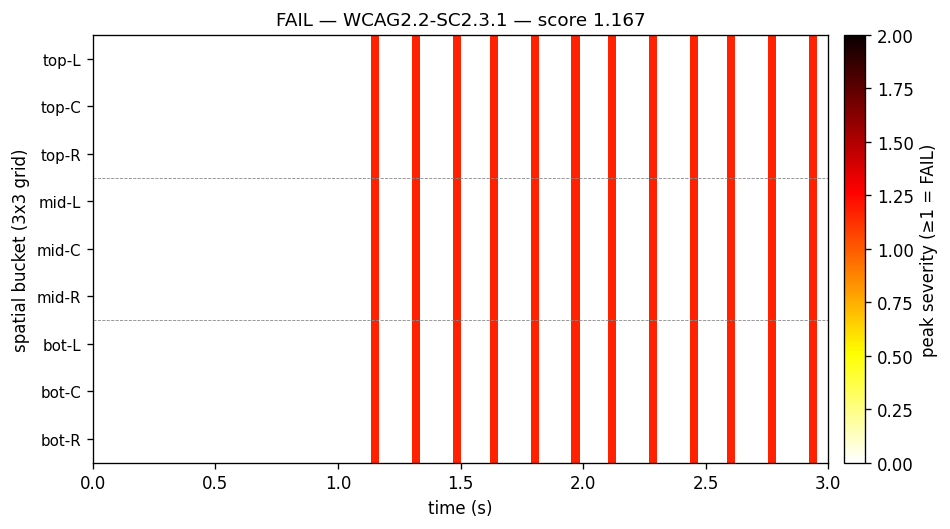
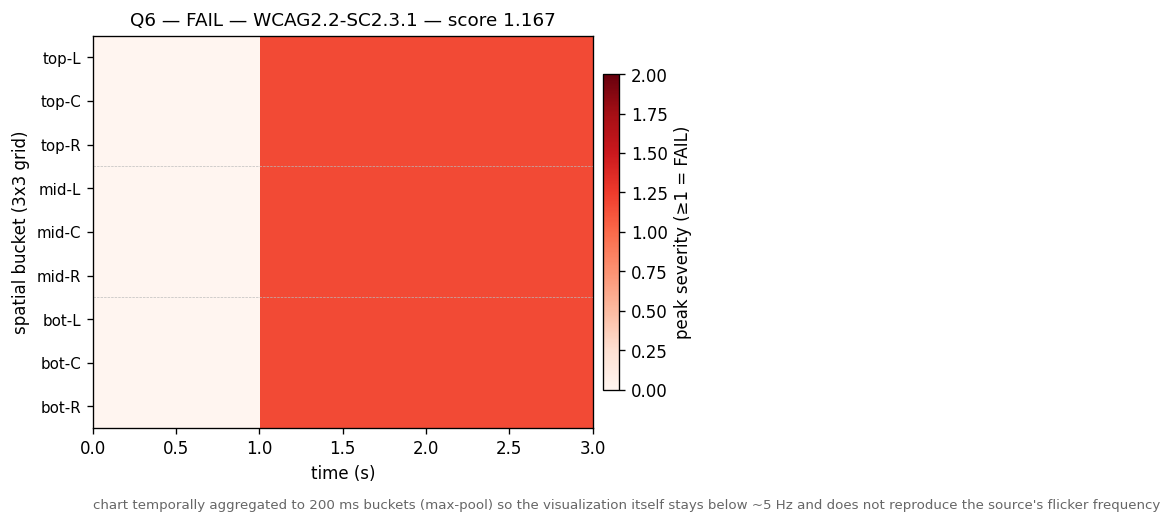
Heatmap: max-pool to 200ms buckets so the chart isn't itself a PSE hazard
The original heatmap rendered one column per video frame, so a video
with a 31 Hz hazardous flicker became a chart with 31 Hz red stripes.
The visualization meant to warn about photosensitive content was
reproducing exactly the kind of content it was warning about. Real
problem, real irony.

Fix:

  - Max-pool the per-frame heat into wider time buckets before
    rendering. Default 200ms means worst-case visible alternation in
    the chart is 2.5 Hz, safely below the WCAG 3-flashes/sec count
    threshold.
  - Switch the colormap from 'hot_r' (white -> yellow -> red -> black,
    very high contrast at edges) to 'Reds' (sequential, no white-to-
    bright-red transition).
  - Soften the row separators (now #bbb dotted instead of #888 dashed)
    so they don't form their own pattern against the colormap.
  - Add a footer to every rendered chart documenting that smoothing
    was applied and why -- readers should know the chart's temporal
    resolution is intentionally coarser than the source's frame rate.

Verified both visually and structurally on:
  - Q6-extended/fps_sweep/60fps_fail_31hz (source: 31 Hz full-screen
    flash). Previously rendered as 31 Hz red stripes; now a single
    continuous red block from ~1.0s onward, all 9 spatial buckets.
  - TRACE wcagc/f002f038 (source: 4 burst-pairs in 34 frames). Single
    red block in top-R bucket at 1.1-1.4s, matching the bbox and
    timing of the actual hazard.
[…]

diff --git a/report/heatmap.py b/report/heatmap.py
@@ -3,11 +3,17 @@
 Renders a PNG where the x-axis is time and the y-axis is a coarse
 spatial grid (default 3x3 → 9 buckets, listed top-to-bottom,
 left-to-right). Each cell's colour is the peak hazard severity in that
-spatial bucket at that frame, across all hazard classes.
+spatial bucket within a small time window.
 
-Reads a detector ``Result`` (dataclass or dict) and writes a PNG. Used
-to give a one-glance answer to "where and when does this video have
-hazardous regions?"
+**Why this matters for PSE-safe rendering:** a naïve plot with one
+column per video frame reproduces the source's flicker frequency in
+the visualization itself -- a heatmap of a 31 Hz hazardous video
+becomes a 31 Hz stripe pattern, which is the same hazard we're trying
+to warn about. To prevent that, we aggregate frames into wider time
+buckets (default 200 ms, well below 5 Hz) using max-pool, so the
+semantic "this region was hazardous at this time" is preserved without
+inheriting the source's flicker. A subtitle on every rendered chart
+documents the smoothing window so readers know it's intentional.
 
 Bucket order in the y-axis (top→bottom):
   0: top-left      1: top-center     2: top-right
@@ -29,6 +35,12 @@ _BUCKET_LABELS = [
     "mid-L", "mid-C", "mid-R",
     "bot-L", "bot-C", "bot-R",
 ]
+
+# Width of the temporal max-pool bucket. 200 ms keeps any visible
+# alternation in the rendered chart below 5 Hz (worst case: 2.5 Hz),
+# safely below the 3-flash-per-second WCAG count threshold. Reducing
+# this risks the visualization becoming a PSE hazard itself.
+_DEFAULT_BUCKET_MS = 200
 
 
 def _as_dict(obj: Any) -> Any:
@@ -60,7 +72,33 @@ def _bbox_buckets(bbox: tuple[int, int, int, int],
     return out
 
 
-def render_heatmap(result: Any, out_path: Path) -> Path:
+def _max_pool_time(per_frame_heat, fps: float, bucket_ms: int):
+    """Aggregate per-frame heat (shape: N_BUCKETS x n_frames) into wider
+    time buckets via max-pool. Returns (pooled_heat, bucket_duration_s).
+
+    The PSE-safety reason: rendering one column per video frame
+    reproduces the source's flicker frequency in the visualization
+    itself. A 31 Hz hazard video becomes a 31 Hz stripe pattern --
+    the same kind of hazard we're warning about. Pooling to wider
+    time buckets defeats this by guaranteeing visible alternation in
+    the chart stays below ~5 Hz.
+    """
+    import numpy as np
+    if fps <= 0 or per_frame_heat.size == 0:
+        return per_frame_heat, 1.0 / max(fps, 1.0)
+    n_frames = per_frame_heat.shape[1]
+    bucket_dur_s = bucket_ms / 1000.0
+    n_time_buckets = max(1, int(np.ceil(n_frames / (fps * bucket_dur_s))))
+    pooled = np.zeros((per_frame_heat.shape[0], n_time_buckets),
+                       dtype=per_frame_heat.dtype)
+    for fi in range(n_frames):
+        bi = min(int(fi / (fps * bucket_dur_s)), n_time_buckets - 1)
+        np.maximum(pooled[:, bi], per_frame_heat[:, fi], out=pooled[:, bi])
+    return pooled, bucket_dur_s
+
+
+def render_heatmap(result: Any, out_path: Path,
+                     bucket_ms: int = _DEFAULT_BUCKET_MS) -> Path:
     """Render and save the spatial-temporal heatmap. Returns out_path."""
     r = _as_dict(result)
     width = r.get("width", 0)
@@ -75,7 +113,7 @@ def render_heatmap(result: Any, out_path: Path) -> Path:
     import matplotlib.pyplot as plt
 
     n_frames = len(per_frame)
-    heat = np.zeros((N_BUCKETS, n_frames), dtype=np.float32)
+    per_frame_heat = np.zeros((N_BUCKETS, n_frames), dtype=np.float32)
     for fi, f in enumerate(per_frame):
         for region in f.get("hazard_regions", []):
             bbox = tuple(region.get("bbox", (0, 0, 0, 0)))
@@ -84,27 +122,42 @@ def render_heatmap(result: Any, out_path: Path) -> Path:
             if peak_sev <= 0:
                 continue
             for b in _bbox_buckets(bbox, width, height):
-                if peak_sev > heat[b, fi]:
-                    heat[b, fi] = peak_sev
+                if peak_sev > per_frame_heat[b, fi]:
+                    per_frame_heat[b, fi] = peak_sev
 
     fps = float(r.get("fps", 0.0)) or 1.0
     duration = n_frames / fps
+
+    # PSE-safe rendering: max-pool to wider time buckets so the chart
+    # itself can't reproduce the source's flicker frequency.
+    heat, bucket_dur_s = _max_pool_time(per_frame_heat, fps, bucket_ms)
     extent = [0, duration, N_BUCKETS - 0.5, -0.5]
 
     fig, ax = plt.subplots(figsize=(max(8, duration * 1.5), 4.5))
     vmax = max(2.0, float(heat.max()) if heat.size else 1.0)
+    # Sequential colormap with no white→bright-red transition; the bold
+    # bicolour cmaps (hot_r in particular) create high-contrast edges
+    # at hazard onset that read as flicker.
     im = ax.imshow(heat, aspect="auto", extent=extent, origin="upper",
-                    cmap="hot_r", vmin=0.0, vmax=vmax, interpolation="nearest")
+                    cmap="Reds", vmin=0.0, vmax=vmax, interpolation="nearest")
     ax.set_yticks(range(N_BUCKETS))
     ax.set_yticklabels(_BUCKET_LABELS, fontsize=9)
     ax.set_xlabel("time (s)")
     ax.set_ylabel("spatial bucket (3x3 grid)")
     ax.set_title(f"Q6 — {r.get('verdict','?')} — {Path(r.get('profile_name','?')).name} "
                   f"— score {r.get('score', 0.0):.3f}", fontsize=11)
+    # Footer noting the PSE-safe smoothing.
+    ax.text(0.0, -0.18,
+            f"chart temporally aggregated to {bucket_ms} ms buckets "
+            f"(max-pool) so the visualization itself stays below ~5 Hz "
+            f"and does not reproduce the source's flicker frequency",
+            transform=ax.transAxes, fontsize=8, color="#666",
+            verticalalignment="top")
 
-    # Horizontal grid lines between rows of the 3x3.
+    # Horizontal grid lines between rows of the 3x3 (also de-emphasised
+    # to avoid creating their own visual flicker against the colormap).
     for y in (2.5, 5.5):
-        ax.axhline(y, color="#888", linewidth=0.5, linestyle="--")
+        ax.axhline(y, color="#bbb", linewidth=0.4, linestyle="--")
 
     cbar = fig.colorbar(im, ax=ax, fraction=0.03, pad=0.02)
     cbar.set_label("peak severity (≥1 = FAIL)")